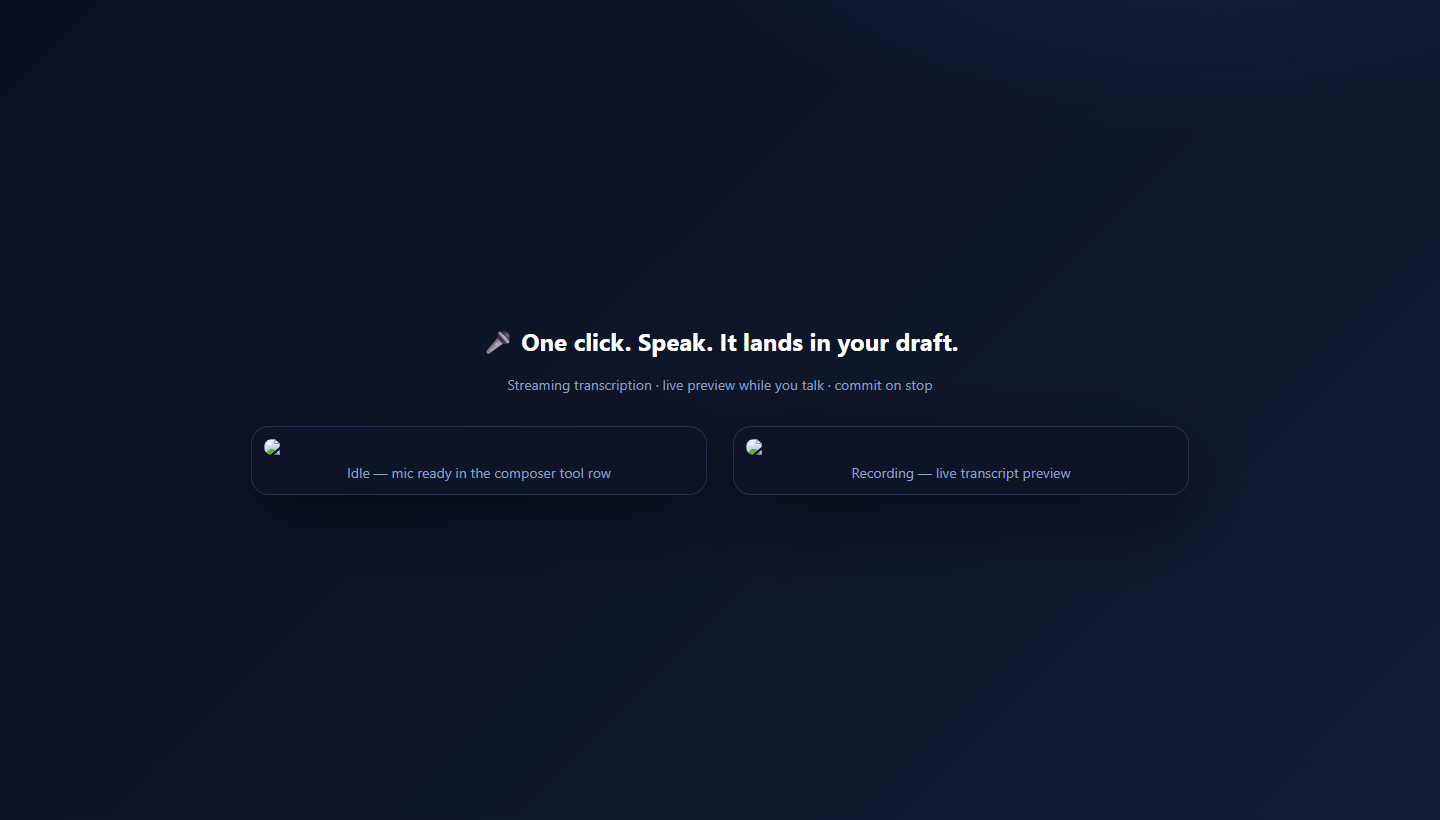
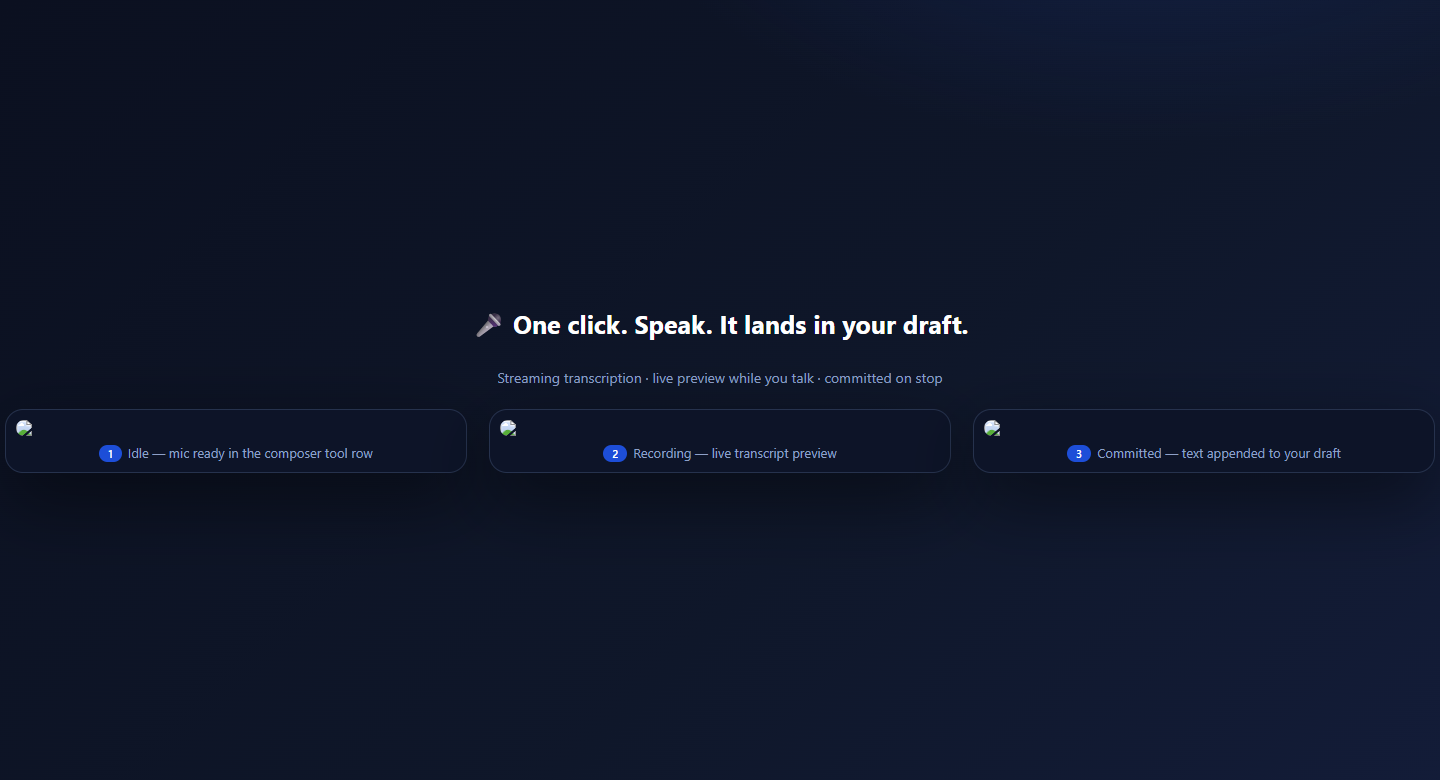
feat: bundle 自动激活 + GitHub 直接安装 + 三状态配图 + 仓库公开
- package.json 声明 dsh.bundle → 安装时自动注册 roster，无需手动改 cordis.patch.yml
- 新增 cordis.patch.yml bundle patch
- README 安装改为直接从 GitHub 安装（github: 协议 / git URL），附 dump-config 验证
- mockup 重做为三状态叙事（Idle → Recording → Committed），铺满无留白
- 仓库转为 public，他人可直接 clone 安装

diff --git a/README.md b/README.md
@@ -54,27 +54,29 @@ your local FunASR server automatically** — or force one engine via `localStora
 
 ## 🚀 Quick start
 
-### 1. Install the plugin
+### 1. Install the plugin (directly from GitHub)
 
 ```powershell
-# from the cloned repo directory:
-dsh plugin --profile web add "<path-to-this-repo>"
+# no clone needed — pnpm installs straight from the repo:
+dsh plugin --profile web add "github:fingercd/dsh-voice-input"
+# or with a full git URL:
+dsh plugin --profile web add "https://github.com/fingercd/dsh-voice-input.git"
 ```
 
-### 2. Register the roster (one-time)
+### 2. Restart `dsh web` — that's it
 
-Append to `~/.dsh/profiles/web/cordis.patch.yml`:
+The package carries its own `dsh.bundle` patch (`cordis.patch.yml`), so the
+`voice-input` browser roster row is **registered automatically on install** —
+no manual edits to `cordis.patch.yml`, no agent-side configuration.
 
-```yaml
-- insert:
-    - id: voice-input
-      name: 'dsh-voice-input'
+```powershell
+# verify the auto-registration before restarting (read-only):
+dsh --profile web --dump-config | findstr voice-input
 ```
 
-### 3. Restart `dsh web`
-
-Client plugins load dynamically at boot — **no frontend rebuild needed**. Refresh the page and
-the mic button appears at the left end of the composer tool row.
+Client plugins load dynamically at boot — **no frontend rebuild needed**. After
+restarting `dsh web`, refresh the page and the mic button appears at the left
+end of the composer tool row.
 
 ## 🎯 Local FunASR engine (optional — maximum accuracy)
 
@@ -111,6 +113,7 @@ docstring has the full detail).
 |---|---|
 | `lib/index.js` | Host (node) half — empty `apply`, ensures the Loader roster entry |
 | `lib/client.js` | Browser bundle — mic button, dual-engine orchestration, draft commits |
+| `cordis.patch.yml` | Bundle patch (`dsh.bundle`) — auto-registers the `voice-input` roster row on install |
 | `scripts/funasr_server.py` | Local streaming ASR service (FastAPI + WebSocket + FunASR) |
 | `scripts/install_funasr.ps1` | One-shot dependency installer |
 

diff --git a/README.zh.md b/README.zh.md
@@ -53,26 +53,26 @@ Web Speech 识别失败（如 Chrome 无法访问 Google 服务）时，插件**
 
 ## 🚀 快速开始
 
-### 1. 安装插件
+### 1. 安装插件（直接从 GitHub 安装）
 
 ```powershell
-# 在本仓库克隆目录下执行：
-dsh plugin --profile web add "<本仓库路径>"
+# 无需 clone —— pnpm 直接从仓库安装：
+dsh plugin --profile web add "github:fingercd/dsh-voice-input"
+# 或使用完整 git URL：
+dsh plugin --profile web add "https://github.com/fingercd/dsh-voice-input.git"
 ```
 
-### 2. 注册 roster（一次性）
+### 2. 重启 `dsh web` —— 完事
 
-在 `~/.dsh/profiles/web/cordis.patch.yml` 追加：
+插件自带 `dsh.bundle` patch（`cordis.patch.yml`），`voice-input` 的 roster 行在**安装时自动注册** ——
+无需手动编辑 `cordis.patch.yml`，无需 agent 辅助配置。
 
-```yaml
-- insert:
-    - id: voice-input
-      name: 'dsh-voice-input'
+```powershell
+# 重启前可用只读命令验证自动注册：
+dsh --profile web --dump-config | findstr voice-input
 ```
 
-### 3. 重启 `dsh web`
-
-client 插件在启动时动态加载 —— **无需重建前端**。刷新页面，麦克风按钮出现在输入框工具行左端。
+client 插件在启动时动态加载 —— **无需重建前端**。重启 `dsh web` 后刷新页面，麦克风按钮出现在输入框工具行左端。
 
 ## 🎯 本地 FunASR 引擎（可选 · 准确度优先）
 
@@ -108,6 +108,7 @@ localStorage.setItem("dsh.voice.input.funasrUrl", "ws://127.0.0.1:8899/ws");   /
 |---|---|
 | `lib/index.js` | 宿主侧（node）—— 空 apply，保证进入 Loader roster |
 | `lib/client.js` | 浏览器 bundle —— 麦克风按钮、双引擎编排、草稿提交 |
+| `cordis.patch.yml` | Bundle patch（`dsh.bundle`）—— 安装时自动注册 `voice-input` roster 行 |
 | `scripts/funasr_server.py` | 本地流式识别服务（FastAPI + WebSocket + FunASR） |
 | `scripts/install_funasr.ps1` | 一键依赖安装 |
 
